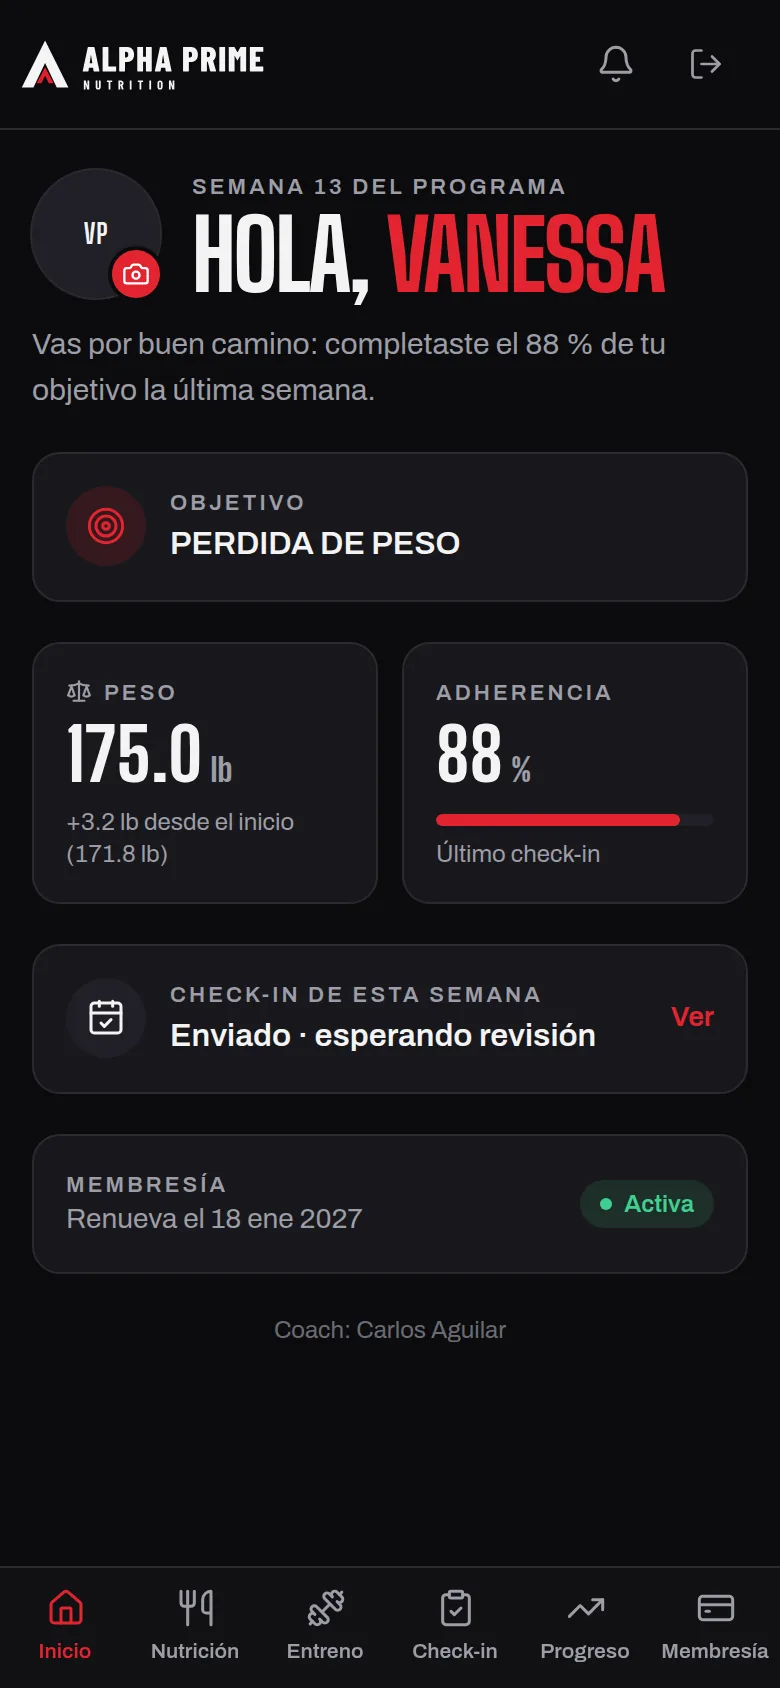
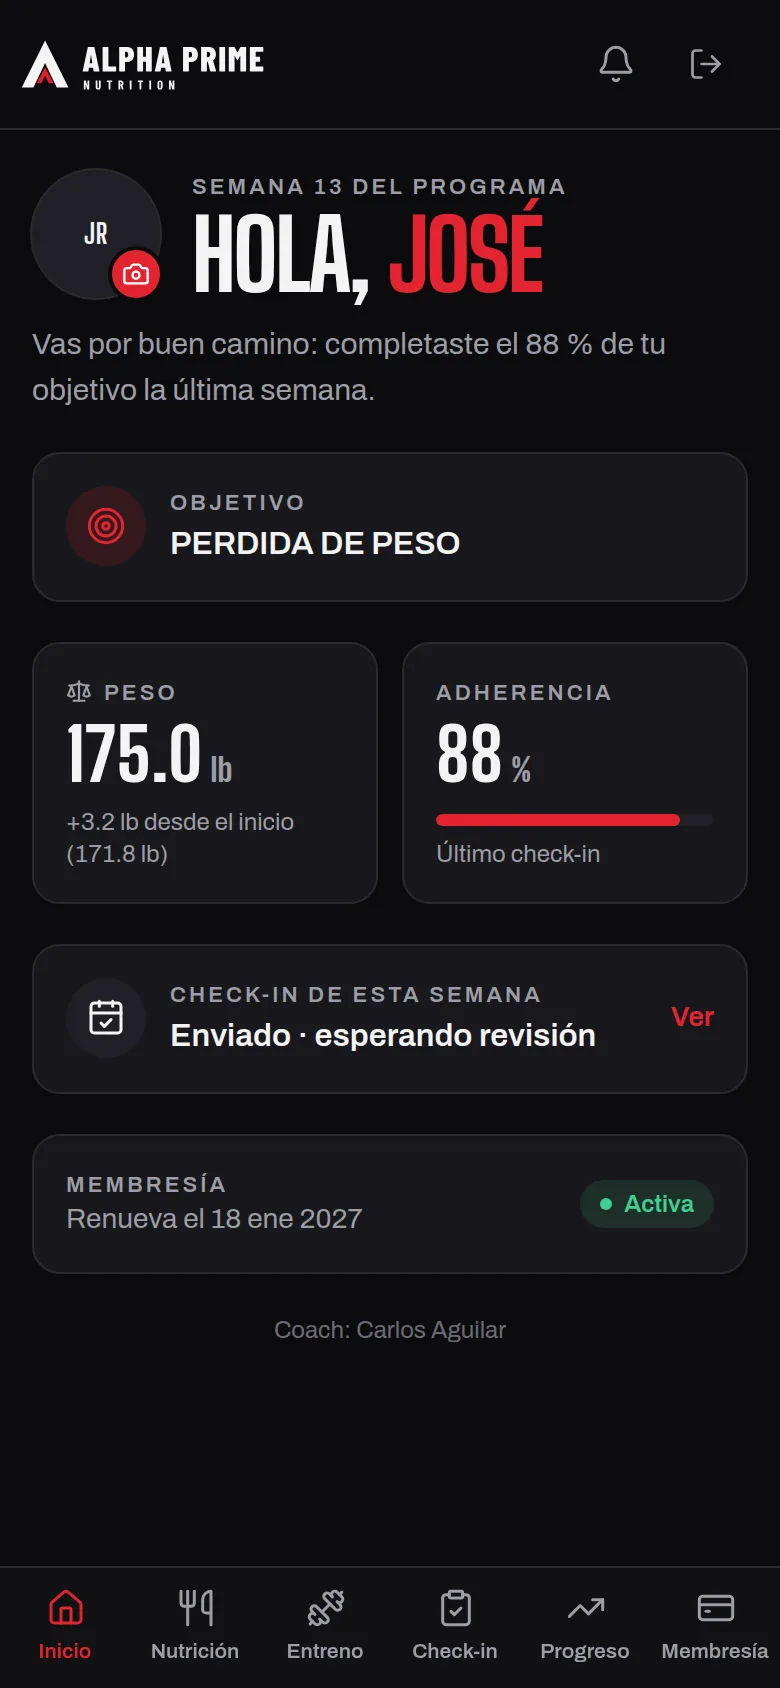
Página: destacar evaluación online y capturas con cliente José
Claude-Session: https://claude.ai/code/session_014ZBGuxPdAMarLZ6FLQhY4J

Changed region(s): [[0.4923, 0.1232, 0.8615, 0.1848], [0.0923, 0.1232, 0.1538, 0.154]]

diff --git a/src/components/landing/landing.tsx b/src/components/landing/landing.tsx
@@ -1,13 +1,13 @@
 /* eslint-disable @next/next/no-img-element */
 import Link from "next/link";
-import { ArrowRight, Bell, CalendarCheck, Dumbbell, LineChart, MessageCircle, Salad, Smartphone, Target, Utensils } from "lucide-react";
+import { ArrowRight, Bell, Globe, Video, CalendarCheck, Dumbbell, LineChart, MessageCircle, Salad, Smartphone, Target, Utensils } from "lucide-react";
 import { LogoHorizontal } from "@/components/brand/logo";
 import { SITE, TESTIMONIALS, whatsappUrl } from "@/lib/site";
 import { cn } from "@/lib/cn";
 
 const STEPS = [
   { title: "Me escribís", text: "Me contás tu objetivo, tu rutina diaria y lo que te gusta comer." },
-  { title: "Evaluación", text: "Tomamos tus medidas y armamos tu punto de partida." },
+  { title: "Evaluación online o presencial", text: "Por videollamada desde donde estés, o en persona con medidas. Tu plan es igual de personalizado." },
   { title: "Tu plan en la app", text: "Recibís tu plan de alimentación y tu rutina, hechos para vos." },
   { title: "Seguimiento semanal", text: "Cada semana mandás tu check-in y ajustamos lo necesario." },
 ];
@@ -99,6 +99,9 @@ export function Landing() {
                 Cómo funciona
               </a>
             </div>
+            <p className="mt-6 inline-flex items-center gap-2 rounded-full border border-red/40 bg-red/10 px-4 py-2 text-sm font-semibold">
+              <Globe size={16} className="text-red" /> Evaluación 100 % online · No necesitás venir en persona
+            </p>
           </div>
 
           <div className="relative mx-auto flex w-full max-w-md justify-center">
@@ -122,6 +125,19 @@ export function Landing() {
               </li>
             ))}
           </ol>
+
+          <div className="mt-8 grid gap-6 rounded-card border border-red/50 bg-gradient-to-br from-red/15 via-panel to-panel p-6 sm:p-8 lg:grid-cols-[auto_1fr] lg:items-center">
+            <span className="grid h-16 w-16 place-items-center rounded-2xl bg-red text-white">
+              <Video size={30} />
+            </span>
+            <div>
+              <h3 className="font-display text-4xl font-extrabold uppercase leading-none sm:text-5xl">¿No podés venir en persona? <span className="text-red">No hay problema.</span></h3>
+              <p className="mt-3 max-w-3xl text-muted">
+                La evaluación también se hace <strong className="text-fg">100 % online</strong>: por videollamada o WhatsApp me contás tu objetivo, tu día a día y lo que te gusta comer, me mandás tu peso y unas fotos, y armo tu plan a tu medida. Estés donde estés.
+                Si preferís venir, también podemos hacerla en persona y tomar tus medidas.
+              </p>
+            </div>
+          </div>
         </div>
       </section>
 

diff --git a/src/app/page.tsx b/src/app/page.tsx
@@ -5,7 +5,7 @@ import { Landing } from "@/components/landing/landing";
 
 export const metadata: Metadata = {
   title: { absolute: "Alpha Prime Nutrition · Asesorías de alimentación y entrenamiento" },
-  description: "Plan de alimentación y rutina personalizados, con seguimiento semanal desde tu propia app.",
+  description: "Plan de alimentación y rutina personalizados, con evaluación online o presencial y seguimiento semanal desde tu propia app.",
   robots: { index: true, follow: true },
   alternates: { canonical: "/" },
 };
